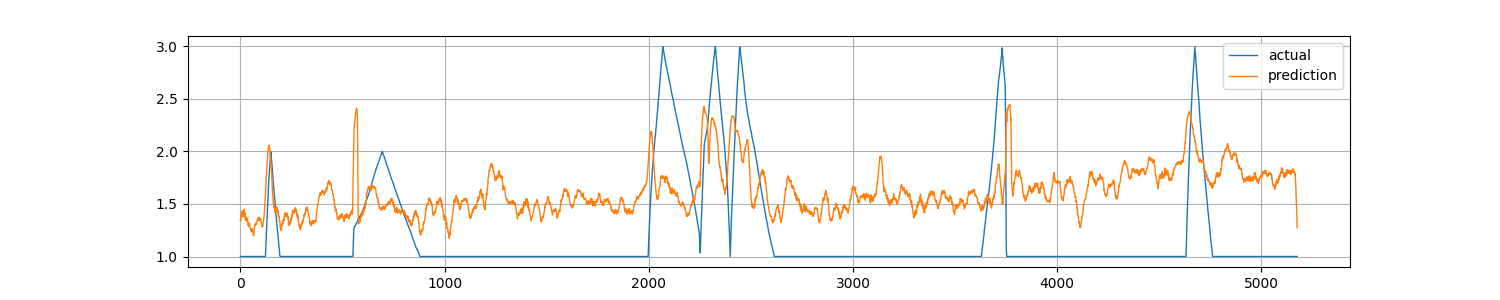
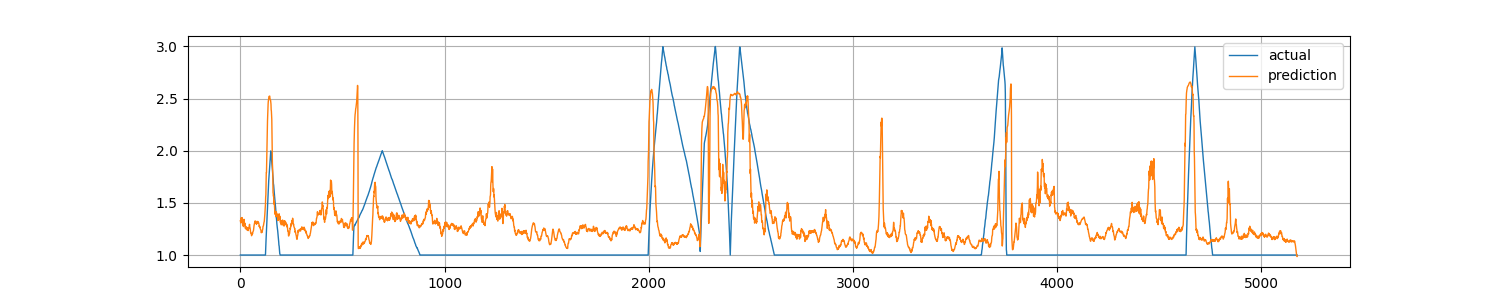
feat: set kernel and bias initializer, set accuracy metric, attach prediction result made in parameter tuning

diff --git a/main.py b/main.py
@@ -4,22 +4,13 @@ import matplotlib.pyplot as plt
 import numpy as np
 import pandas as pd
 import seaborn as sns
+from keras import initializers
 from keras.callbacks import EarlyStopping, ModelCheckpoint
 from keras.layers import Dense
 from keras.layers import LSTM
 from keras.models import Sequential
 from sklearn.model_selection import train_test_split
 from sklearn.preprocessing import MinMaxScaler, StandardScaler, RobustScaler
-
-
-def interpolate_y_data(y_data):
-    offset = 25
-    interpolated_result = []
-    for index in range(len(y_data)):
-        init_index = (index - offset) if (index - offset) > 0 else 0
-        interpolated_result.append(sum(y_data[init_index:index + offset]) / len(y_data[init_index:index + offset]))
-
-    return np.array(interpolated_result)
 
 
 def plot_correlation(Xs, y):
@@ -93,7 +84,6 @@ if __name__ == '__main__':
     df.columns = ['rotation', 'feed', 'velocity', 'label']
     X = df.loc[:, 'rotation':'velocity']
     y = df.loc[:, ['label']]
-    # y = pd.DataFrame(interpolate_y_data(y.values), y.index, y.columns)
 
     # Plot data
     plot_correlation(X, y)
@@ -113,13 +103,15 @@ if __name__ == '__main__':
     model = Sequential()
     model.add(LSTM(16,
                    input_shape=(X_train.shape[1], X_train.shape[2]),
-                   activation='tanh',
+                   kernel_initializer=initializers.GlorotNormal(seed=12),
+                   bias_initializer='zeros',
                    return_sequences=False)
               )
-    model.add(Dense(1))
+    model.add(Dense(1, kernel_initializer=initializers.GlorotNormal(seed=12),
+                    bias_initializer='zeros'))
 
     # Learning
-    model.compile(loss='mean_squared_error', optimizer='adam')
+    model.compile(loss='mean_squared_error', optimizer='adam', metrics=['accuracy'])
     early_stop = EarlyStopping(monitor='val_loss', patience=5)
     filename = os.path.join('./model', 'tmp_checkpoint.h5')
     checkpoint = ModelCheckpoint(filename, monitor='val_loss', verbose=1, save_best_only=True, mode='auto')
